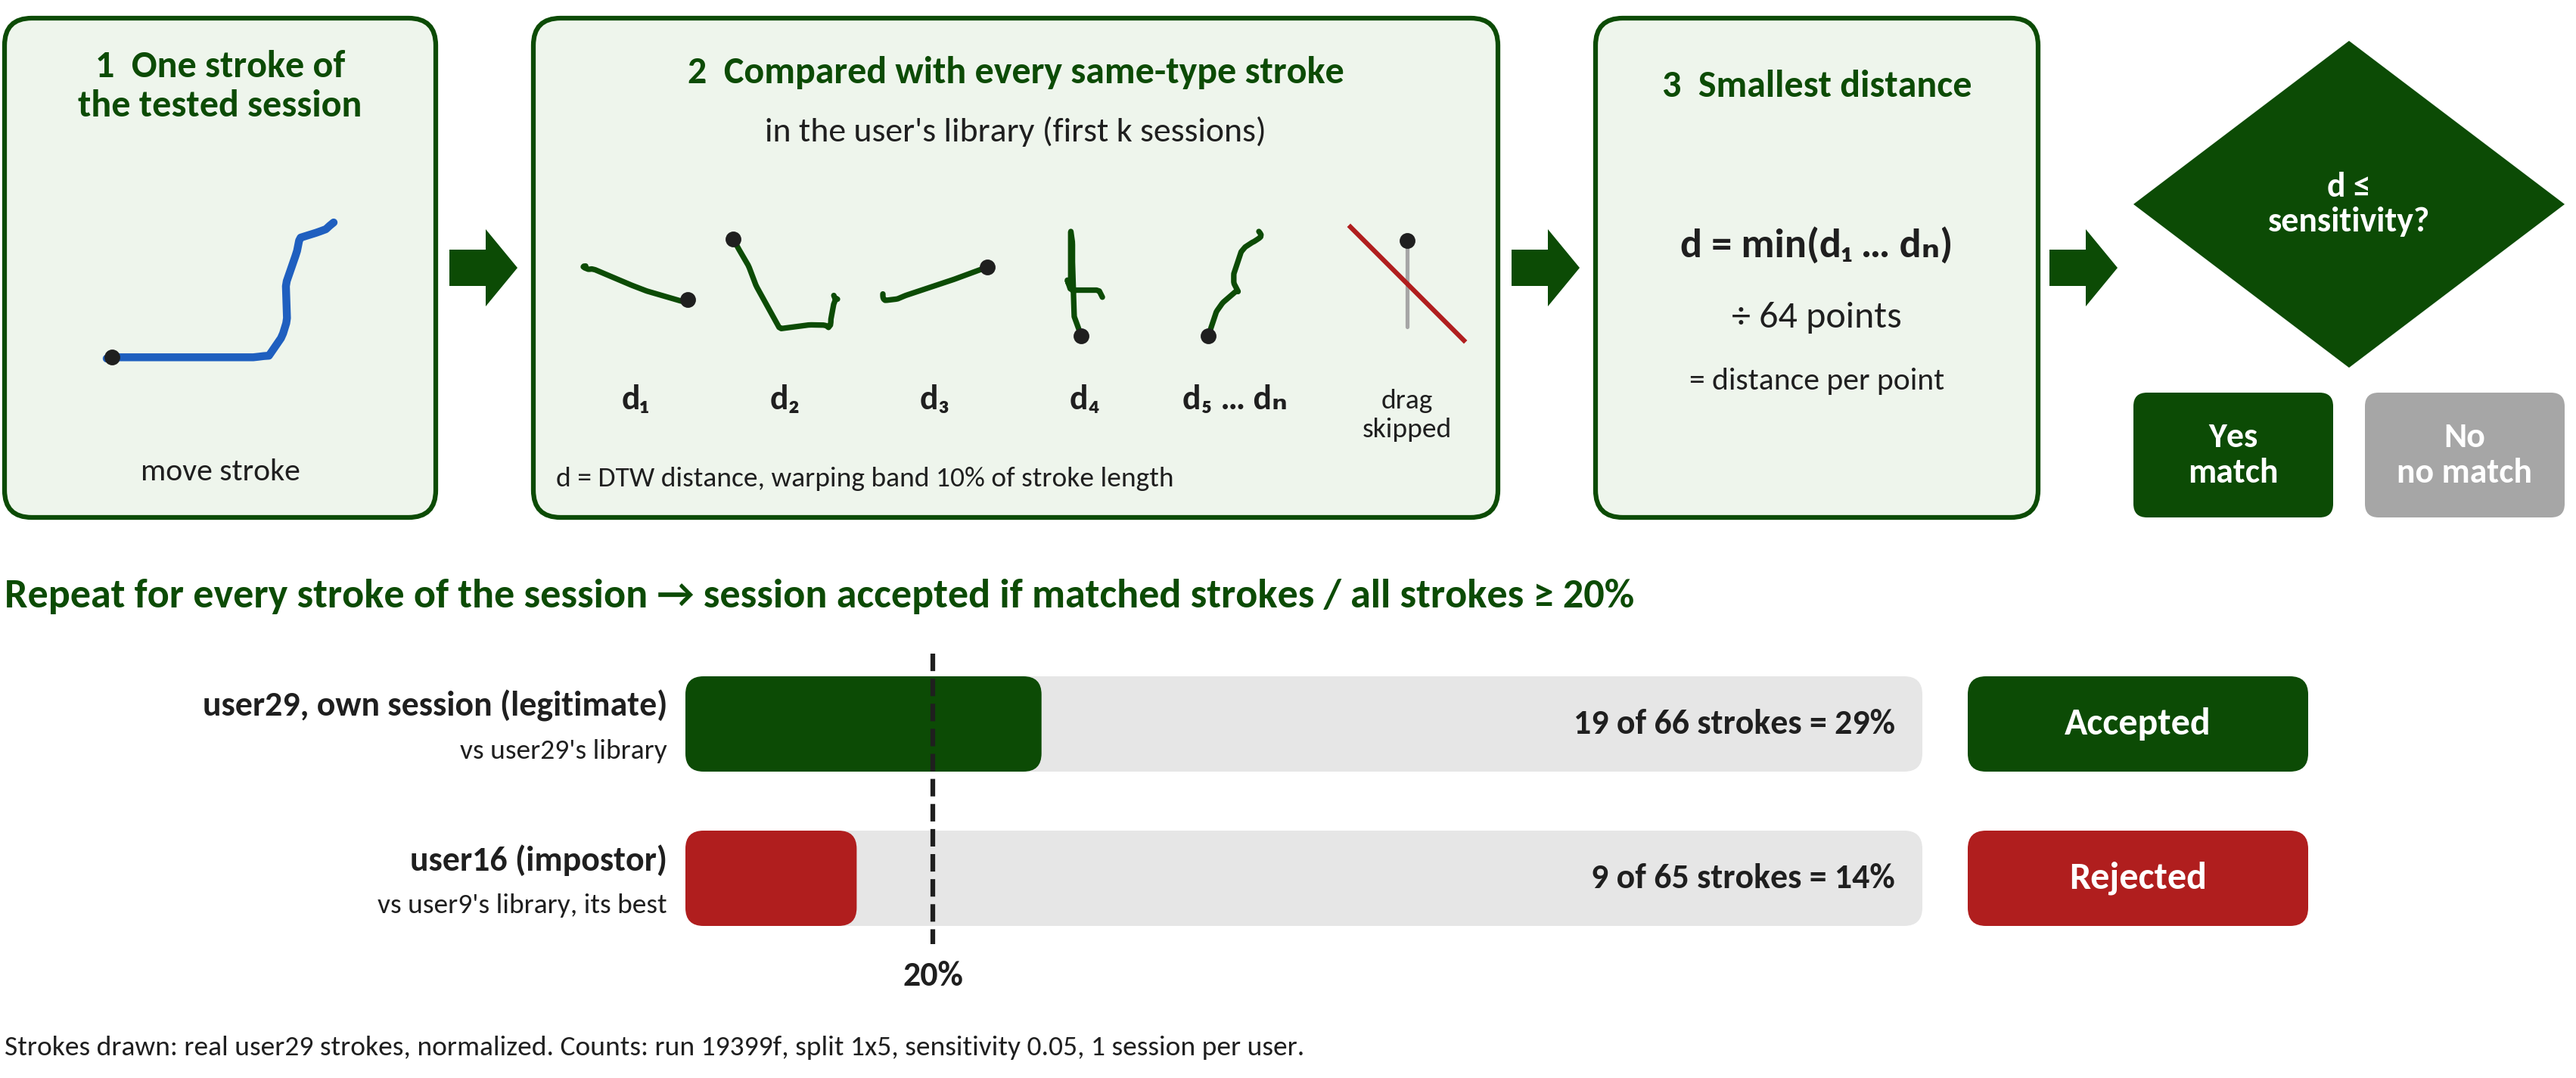
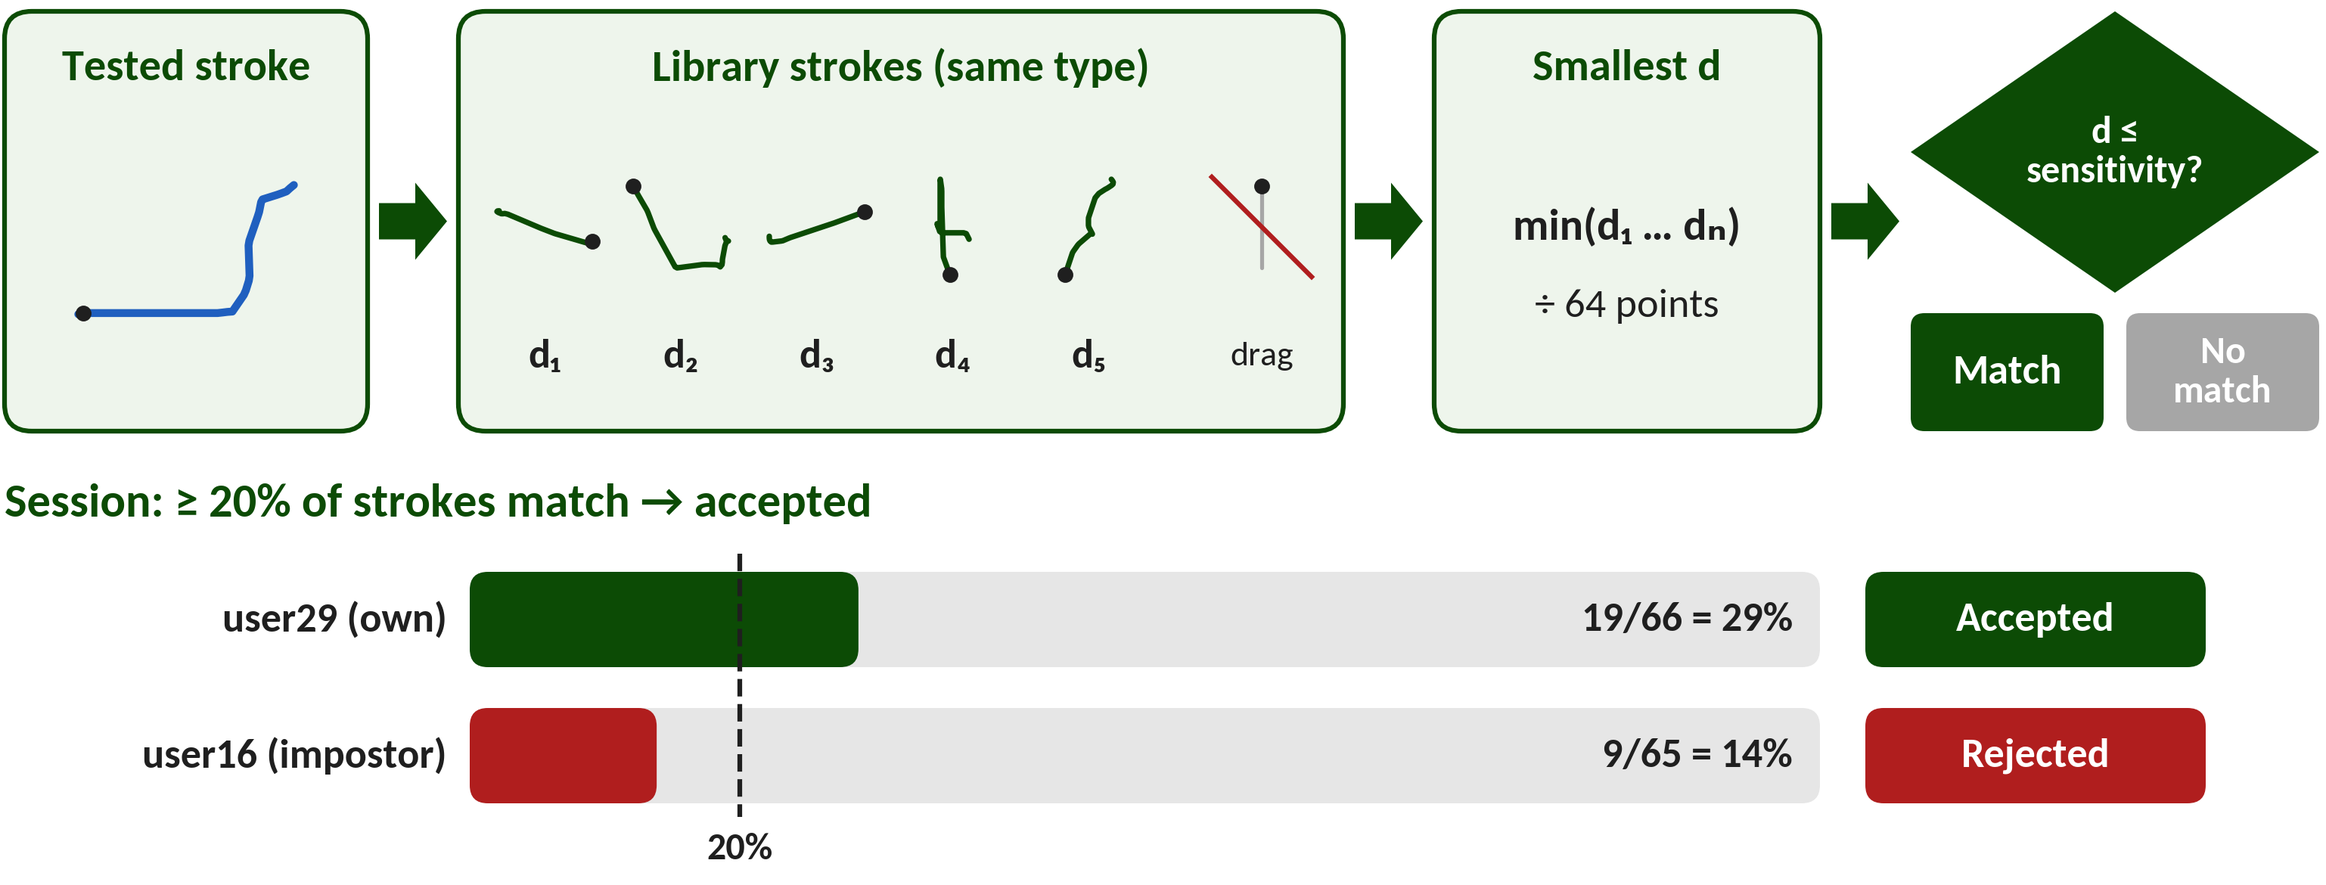
DTW matching PNG: compact layout with short labels so it fits on a slide; data source moved to the guide's speaker note

diff --git a/paper/defense/make_matching_png.py b/paper/defense/make_matching_png.py
@@ -16,7 +16,7 @@ sys.path.insert(0, str(Path(__file__).resolve().parent))
 from make_matching_slide import SESSIONS, strokes  # noqa: E402
 
 GREEN, LIGHT, DARK, GREY, RED, BLUE = "#0C4B05", "#EEF5EC", "#1F1F1F", "#A6A6A6", "#B01E1E", "#1F5FBF"
-W, H = 11.35, 4.75   # inches
+W, H = 10.25, 3.9   # inches
 for f in Path("/usr/share/fonts/truetype/crosextra").glob("Carlito-*.ttf"):  # Calibri-compatible, as on the slides
     font_manager.fontManager.addfont(str(f))
 plt.rcParams["font.family"] = ["Carlito", "DejaVu Sans"]
@@ -45,66 +45,59 @@ def t(ax, x, y, s, size=11, bold=False, color=DARK, ha="center", va="center"):
 
 
 def stroke_row(ax, tested, library, drag):
-    top, h = 0.08, 2.2
+    top, h = 0.05, 1.85
     mid = top + h / 2
-    rbox(ax, 0.0, top, 1.9, h)
-    t(ax, 0.95, top + 0.3, "1  One stroke of\nthe tested session", 12, True, GREEN)
-    stroke(ax, tested, 0.95, top + 1.2, 1.0, BLUE, 2.5)
-    t(ax, 0.95, top + h - 0.2, "move stroke", 10)
-    arrow(ax, 1.96, mid)
-    lx, lw = 2.33, 4.25
+    rbox(ax, 0.0, top, 1.6, h)
+    t(ax, 0.8, top + 0.25, "Tested stroke", 14, True, GREEN)
+    stroke(ax, tested, 0.8, top + 1.05, 0.95, BLUE, 2.5)
+    arrow(ax, 1.65, mid)
+    lx, lw = 2.0, 3.9
     rbox(ax, lx, top, lw, h)
-    t(ax, lx + lw / 2, top + 0.24, "2  Compared with every same-type stroke", 12, True, GREEN)
-    t(ax, lx + lw / 2, top + 0.5, "in the user's library (first k sessions)", 11)
+    t(ax, lx + lw / 2, top + 0.25, "Library strokes (same type)", 14, True, GREEN)
     for i, s in enumerate(library):
-        cx = lx + 0.45 + i * 0.66
-        stroke(ax, s, cx, top + 1.17, 0.46, GREEN, 1.75)
-        sub = chr(0x2081 + i)
-        t(ax, cx, top + 1.68, f"d{sub}" + (" … dₙ" if i == len(library) - 1 else ""), 11, True)
-    stroke(ax, drag, lx + lw - 0.4, top + 1.17, 0.38, GREY, 1.25)
-    ax.plot([lx + lw - 0.65, lx + lw - 0.15], [top + 0.92, top + 1.42], color=RED, lw=1.5)
-    t(ax, lx + lw - 0.4, top + 1.75, "drag\nskipped", 9)
-    t(ax, lx + 0.1, top + h - 0.17, "d = DTW distance, warping band 10% of stroke length", 9, ha="left")
-    arrow(ax, lx + lw + 0.06, mid)
-    sx = lx + lw + 0.43
-    rbox(ax, sx, top, 1.95, h)
-    t(ax, sx + 0.975, top + 0.3, "3  Smallest distance", 12, True, GREEN)
-    t(ax, sx + 0.975, top + 1.0, "d = min(d₁ … dₙ)", 13, True)
-    t(ax, sx + 0.975, top + 1.32, "÷ 64 points", 12)
-    t(ax, sx + 0.975, top + 1.6, "= distance per point", 10)
-    arrow(ax, sx + 2.0, mid)
-    dx = sx + 2.37
-    ax.add_patch(Polygon([(dx, top + 0.82), (dx + 0.95, top + 0.1), (dx + 1.9, top + 0.82), (dx + 0.95, top + 1.54)],
+        cx = lx + 0.38 + i * 0.6
+        stroke(ax, s, cx, top + 0.95, 0.42, GREEN, 1.75)
+        t(ax, cx, top + 1.52, f"d{chr(0x2081 + i)}", 13, True)
+    stroke(ax, drag, lx + lw - 0.36, top + 0.95, 0.36, GREY, 1.25)
+    ax.plot([lx + lw - 0.58, lx + lw - 0.14], [top + 0.73, top + 1.17], color=RED, lw=1.5)
+    t(ax, lx + lw - 0.36, top + 1.52, "drag", 11)
+    arrow(ax, lx + lw + 0.05, mid)
+    sx = lx + lw + 0.4
+    rbox(ax, sx, top, 1.7, h)
+    t(ax, sx + 0.85, top + 0.25, "Smallest d", 14, True, GREEN)
+    t(ax, sx + 0.85, top + 0.95, "min(d₁ … dₙ)", 14, True)
+    t(ax, sx + 0.85, top + 1.3, "÷ 64 points", 13)
+    arrow(ax, sx + 1.75, mid)
+    dx = sx + 2.1
+    ax.add_patch(Polygon([(dx, top + 0.62), (dx + 0.9, top), (dx + 1.8, top + 0.62), (dx + 0.9, top + 1.24)],
                          fc=GREEN, ec="none"))
-    t(ax, dx + 0.95, top + 0.82, "d ≤\nsensitivity?", 11, True, "white")
-    rbox(ax, dx, top + 1.65, 0.88, 0.55, fill=GREEN, edge=None, r=0.06)
-    t(ax, dx + 0.44, top + 1.925, "Yes\nmatch", 11, True, "white")
-    rbox(ax, dx + 1.02, top + 1.65, 0.88, 0.55, fill=GREY, edge=None, r=0.06)
-    t(ax, dx + 1.46, top + 1.925, "No\nno match", 11, True, "white")
+    t(ax, dx + 0.9, top + 0.62, "d ≤\nsensitivity?", 12, True, "white")
+    rbox(ax, dx, top + 1.33, 0.85, 0.52, fill=GREEN, edge=None, r=0.06)
+    t(ax, dx + 0.425, top + 1.59, "Match", 13, True, "white")
+    rbox(ax, dx + 0.95, top + 1.33, 0.85, 0.52, fill=GREY, edge=None, r=0.06)
+    t(ax, dx + 1.375, top + 1.59, "No\nmatch", 12, True, "white")
+
+
+SHORT = ["user29 (own)", "user16 (impostor)"]
 
 
 def session_row(ax):
-    top = 2.48
-    t(ax, 0.0, top + 0.15,
-      "Repeat for every stroke of the session → session accepted if matched strokes / all strokes ≥ 20%",
-      13, True, GREEN, ha="left")
-    bx, bw, bh = 3.0, 5.45, 0.42
-    for i, (who, lib, matched, total) in enumerate(SESSIONS):
-        y = top + 0.5 + i * 0.68
-        t(ax, bx - 0.08, y + 0.13, who, 11, True, ha="right")
-        t(ax, bx - 0.08, y + 0.33, f"vs {lib}", 9, ha="right")
+    top = 2.1
+    t(ax, 0.0, top + 0.12, "Session: ≥ 20% of strokes match → accepted", 15, True, GREEN, ha="left")
+    bx, bw, bh = 2.05, 5.95, 0.42
+    for i, ((_, _, matched, total), who) in enumerate(zip(SESSIONS, SHORT)):
+        y = top + 0.42 + i * 0.6
+        t(ax, bx - 0.1, y + bh / 2, who, 13, True, ha="right")
         share = matched / total
         ok = share >= 0.2
         rbox(ax, bx, y, bw, bh, fill="#E6E6E6", edge=None, r=0.08)
         rbox(ax, bx, y, bw * share, bh, fill=GREEN if ok else RED, edge=None, r=0.08)
-        t(ax, bx + bw - 0.12, y + bh / 2, f"{matched} of {total} strokes = {share:.0%}", 11, True, ha="right")
+        t(ax, bx + bw - 0.12, y + bh / 2, f"{matched}/{total} = {share:.0%}", 13, True, ha="right")
         rbox(ax, bx + bw + 0.2, y, 1.5, bh, fill=GREEN if ok else RED, edge=None, r=0.08)
-        t(ax, bx + bw + 0.95, y + bh / 2, "Accepted" if ok else "Rejected", 12, True, "white")
+        t(ax, bx + bw + 0.95, y + bh / 2, "Accepted" if ok else "Rejected", 13, True, "white")
     x20 = bx + bw * 0.2
-    ax.plot([x20, x20], [top + 0.4, top + 0.5 + 0.68 + bh + 0.08], color=DARK, lw=1.5, ls="--")
-    t(ax, x20, top + 0.5 + 0.68 + bh + 0.22, "20%", 11, True)
-    t(ax, 0.0, H - 0.08, "Strokes drawn: real user29 strokes, normalized. Counts: run 19399f, split 1x5, "
-                         "sensitivity 0.05, 1 session per user.", 9, ha="left", va="bottom")
+    ax.plot([x20, x20], [top + 0.34, top + 0.42 + 0.6 + bh + 0.06], color=DARK, lw=1.5, ls="--")
+    t(ax, x20, top + 0.42 + 0.6 + bh + 0.2, "20%", 12, True)
 
 
 def main() -> None:

diff --git a/paper/defense/DEFENSE_SLIDES_GUIDE.md b/paper/defense/DEFENSE_SLIDES_GUIDE.md
@@ -22,7 +22,7 @@ Every figure the slides need is copied into `paper/defense/figures/`:
 | `exp2_graph.png` | Experiment 2 accuracy curves (manuscript Figure 3) | same |
 | `exp2_confusion.png` | Experiment 2 confusion matrix (manuscript Figure 4) | same |
 | `process_overview_diagram.png` | Slide M1 flow, **transparent PNG** (no title, logo or background) | `make_visual_pngs.py` |
-| `matching_dtw_diagram.png` | Slide M4 DTW matching diagram, **transparent PNG** | `make_matching_png.py --experiment experiment_earl` (real user29 strokes, run `19399f` counts) |
+| `matching_dtw_diagram.png` | Slide M4 DTW matching diagram, **transparent PNG**, compact with short labels (10.25 × 3.9 in) | `make_matching_png.py --experiment experiment_earl`. The image has no source line, so say it: *"The strokes are real user29 strokes. The bars are from run 19399f, split 1x5, sensitivity 0.05, one session: user29's own session matched 19 of 66 strokes against its own library; impostor user16 matched 9 of 65 against user9's library, its best."* |
 | `two_experiments_diagram.png` | Slide M6 two experiments, **transparent PNG** | `make_visual_pngs.py` |
 
 The transparent PNGs (300 dpi) are meant to be dropped onto your own slides. They are drawn for the deck's white background: the text outside the boxes is dark and won't show on a dark slide. The `.pptx` versions (`process_overview.pptx`, `matching_dtw.pptx`, `two_experiments.pptx`) have the same content as editable shapes.
